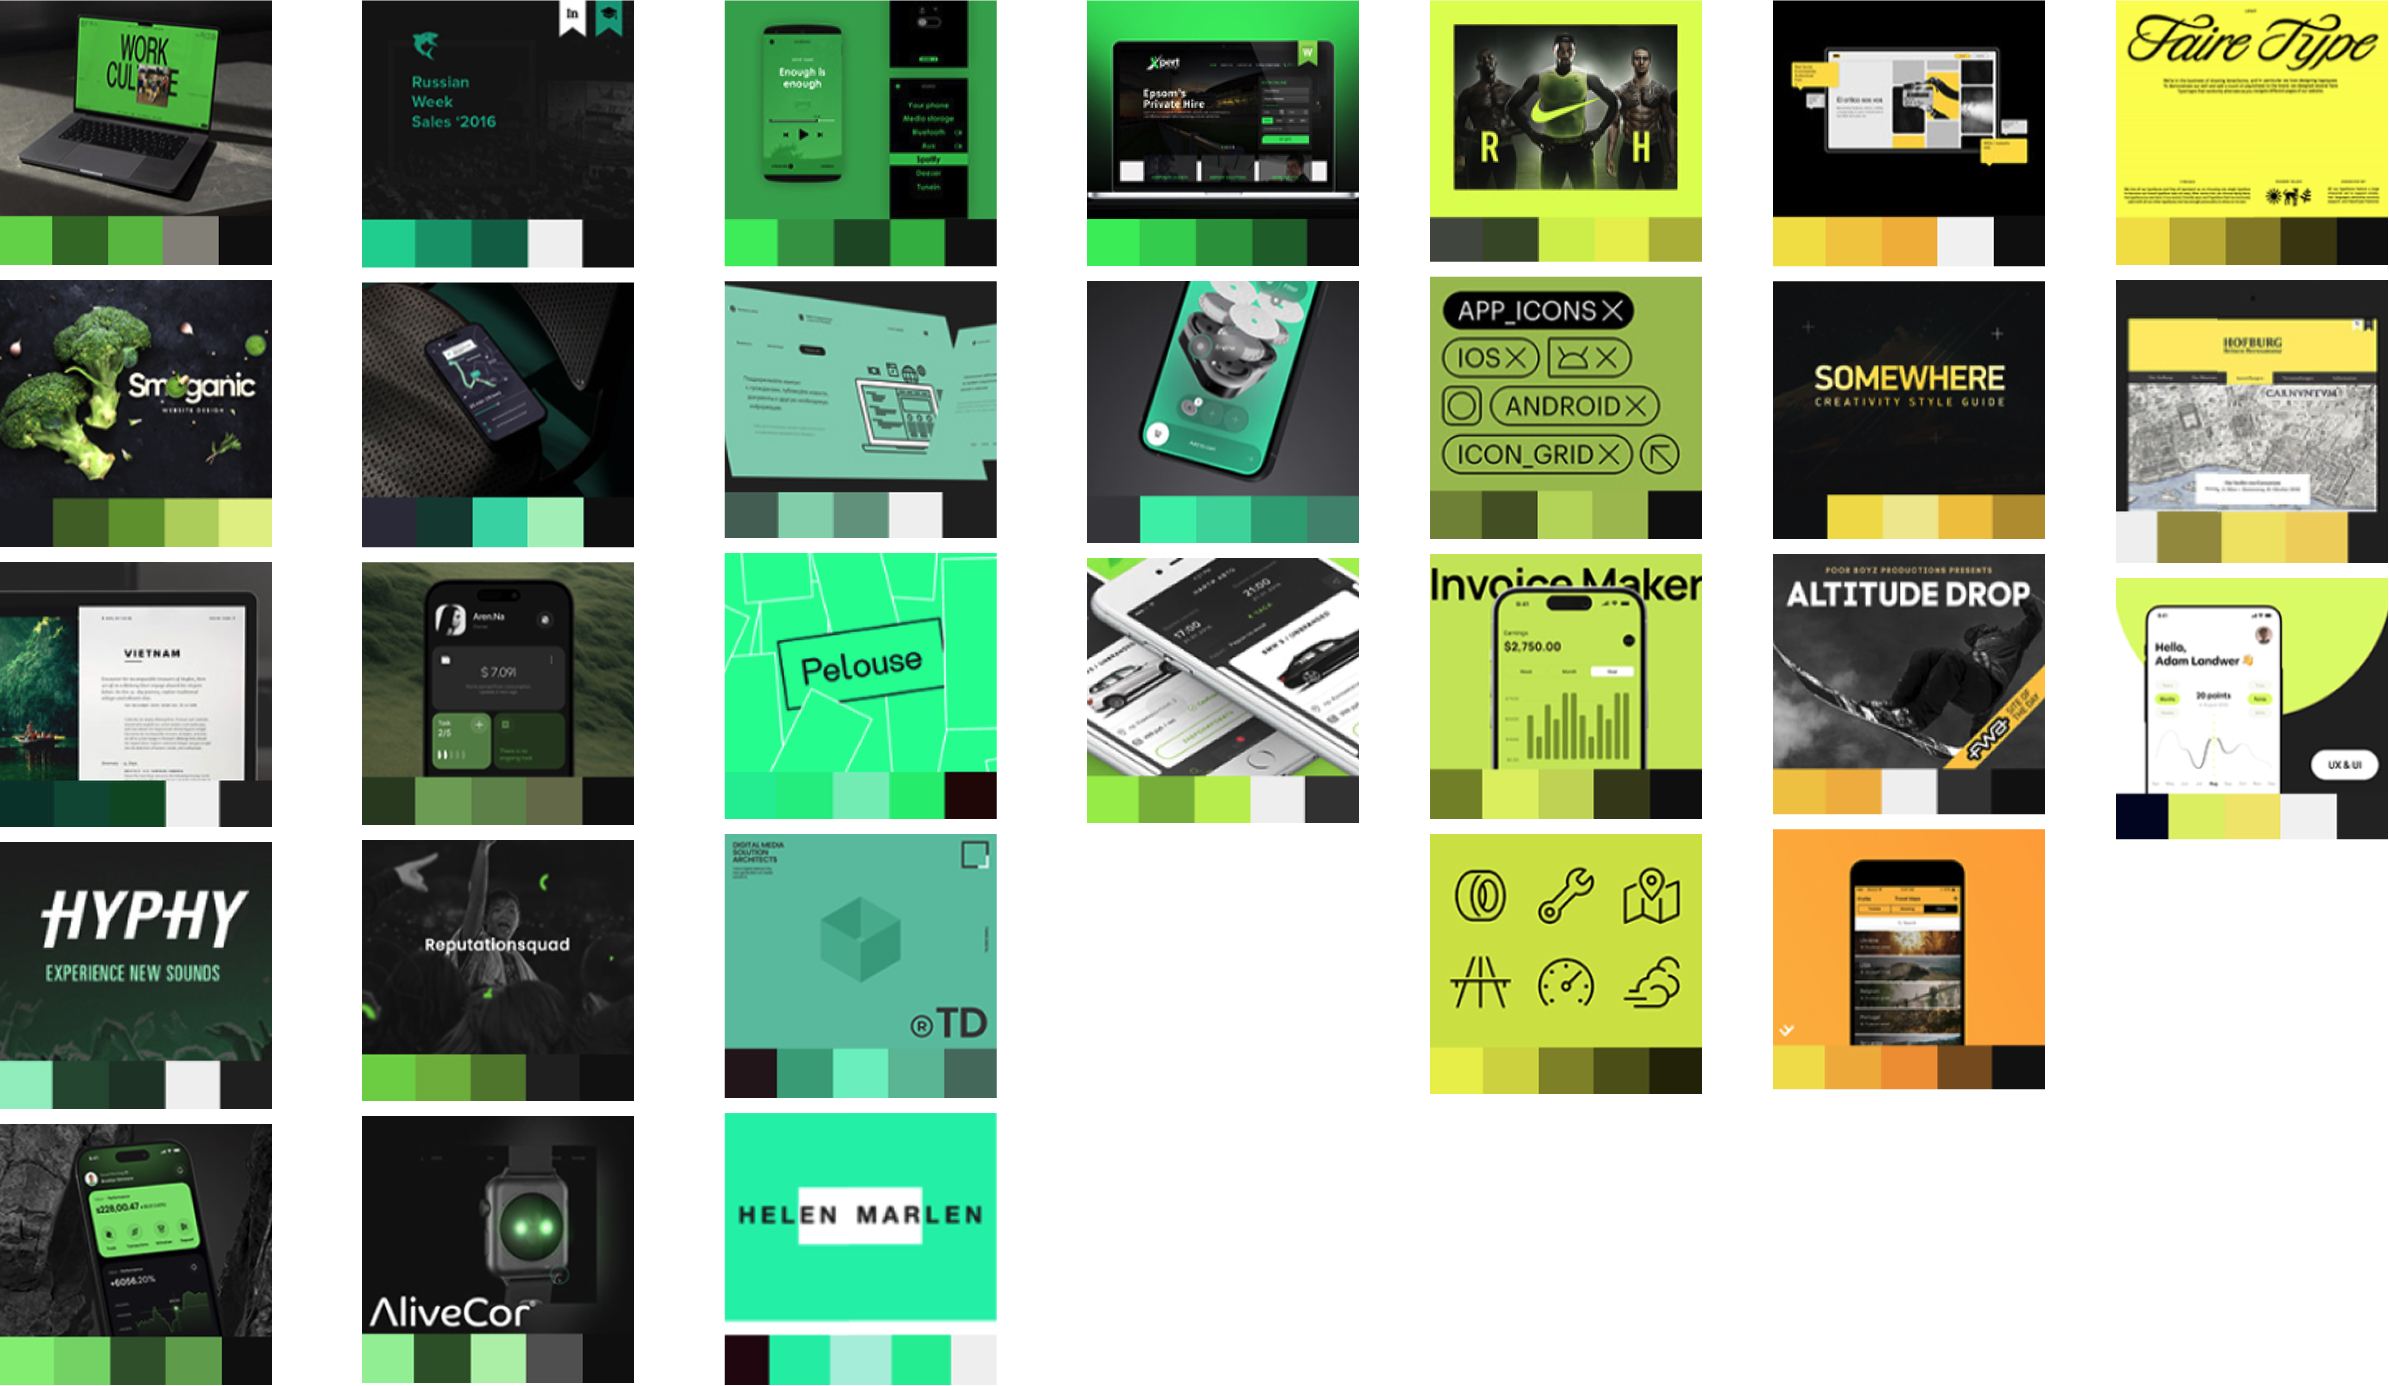
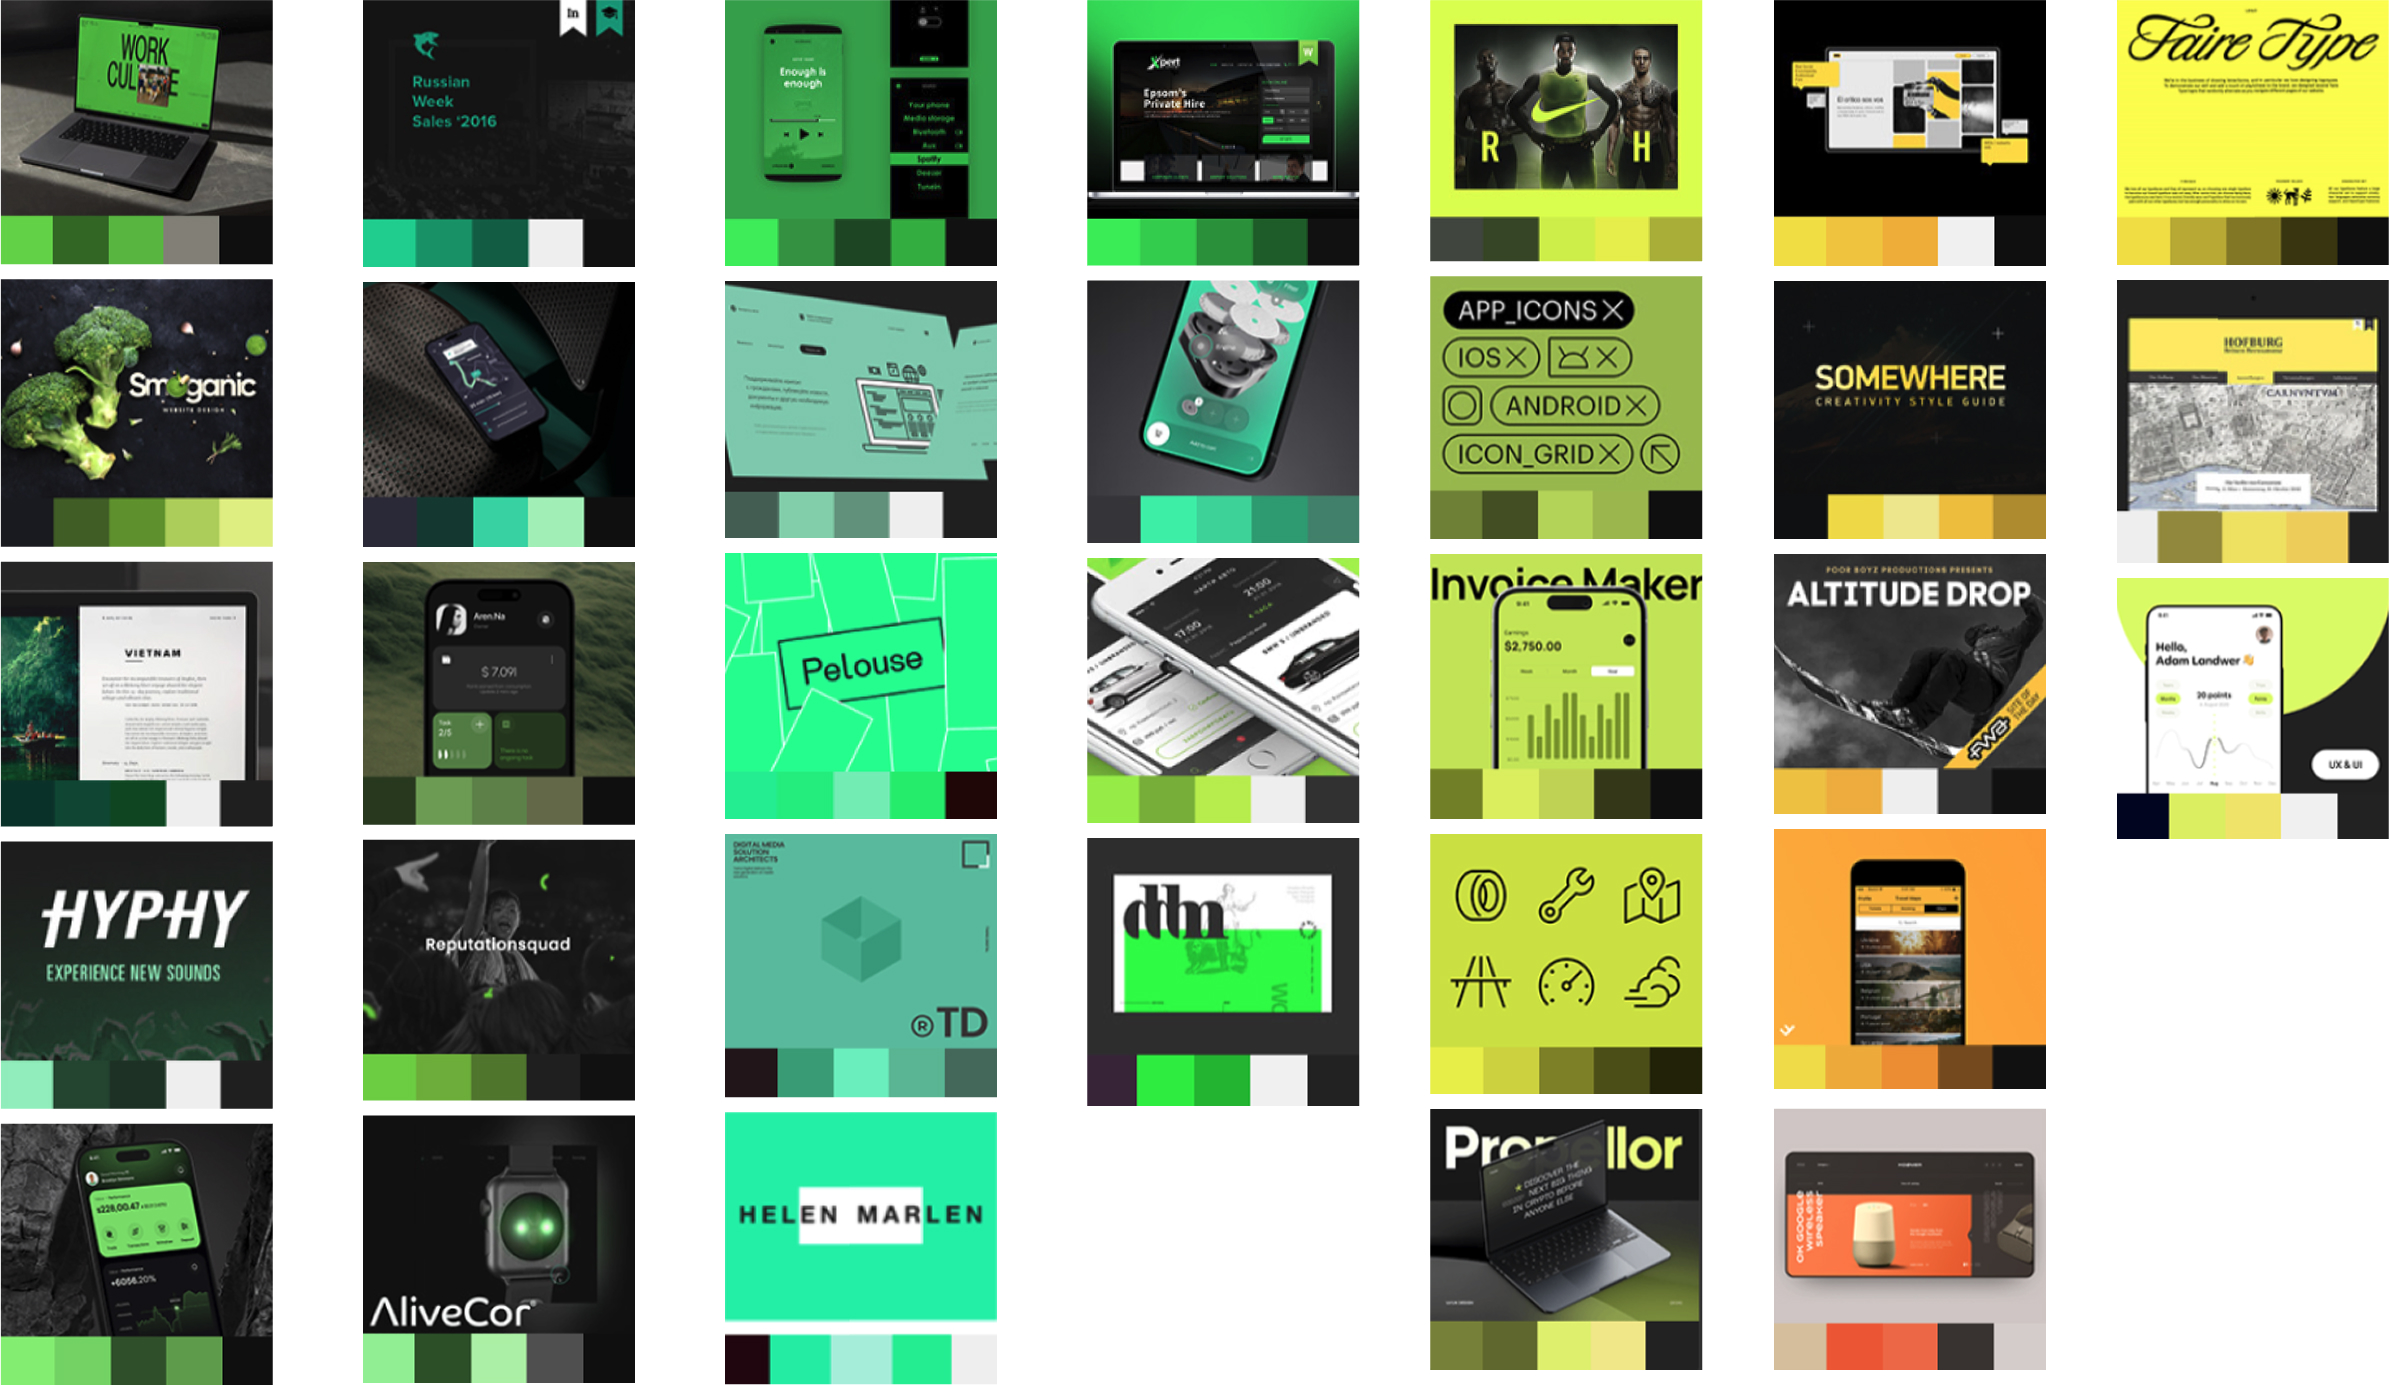
add some images about color

diff --git a/GraphicDesign/Color/Readme.md b/GraphicDesign/Color/Readme.md
@@ -595,4 +595,63 @@ It's not just a visual choice — it's a **conceptual discipline**.
 
 - ## Black + Two
 
+<details>
+  <summary>Why Choose Black + Two Colors in Design & Art？</summary>
+
+Using **Black + Two Accent Colors** is a timeless and strategic approach in both graphic design and art. This color strategy balances **clarity**, **emotional impact**, and **visual hierarchy**. Here’s why it works so well:
+
+
+### 1. Focus & Clarity
+- Black acts as a strong neutral background or anchor.
+- Limiting the palette to just two colors **reduces noise** and enhances legibility.
+- Creates a **focused visual hierarchy** that guides the viewer’s eye.
+
+
+### 2. Emotional Precision
+- Each accent color can carry **specific emotional or cultural meanings**.
+- The limited palette makes emotional messaging more **intentional and powerful**.
+- Black adds **seriousness**, **elegance**, or **mystery**, depending on the tone.
+
+
+### 3. Visual Identity
+- Great for **branding**: consistent use of two signature colors + black creates **recognizability**.
+- Simplifies cross-medium applications: works well in print, web, motion, and packaging.
+
+
+### 4. Contrast & Legibility
+- Black offers **high contrast** with most hues.
+- Two accent colors give enough flexibility to define foreground/background, UI states, etc.
+
+
+### 5. Artistic Expression
+- The constraint forces creativity—leading to **minimal yet expressive compositions**.
+- Common in styles like **Constructivism**, **Swiss Design**, and **Neo-Minimalism**.
+- Useful in **lyrical abstraction**: two expressive tones can evoke rhythm and motion against the black.
+
+
+### When to Use
+- Branding systems
+- Editorial layouts
+- UI design
+- Poster and motion graphics
+- Data visualization (limited color encoding)
+
+
+## 📌 Tips for Selecting the Two Colors
+| Intent        | Pairing Example        |
+|---------------|------------------------|
+| Energetic     | Magenta + Cyan         |
+| Calm          | Teal + Soft Yellow     |
+| Bold/Modern   | Red + White            |
+| Futuristic    | Neon Green + Purple    |
+
+
+### Summary
+Choosing **Black + Two Colors** is not a limitation—it’s a **design discipline** that fosters clarity, emotional depth, and memorable visual identity.
+
+![Color](./imags/color-20.jpg "Color")
+</details>
+
 - ## Neutral earth tones
+
+- ## Gray tones
